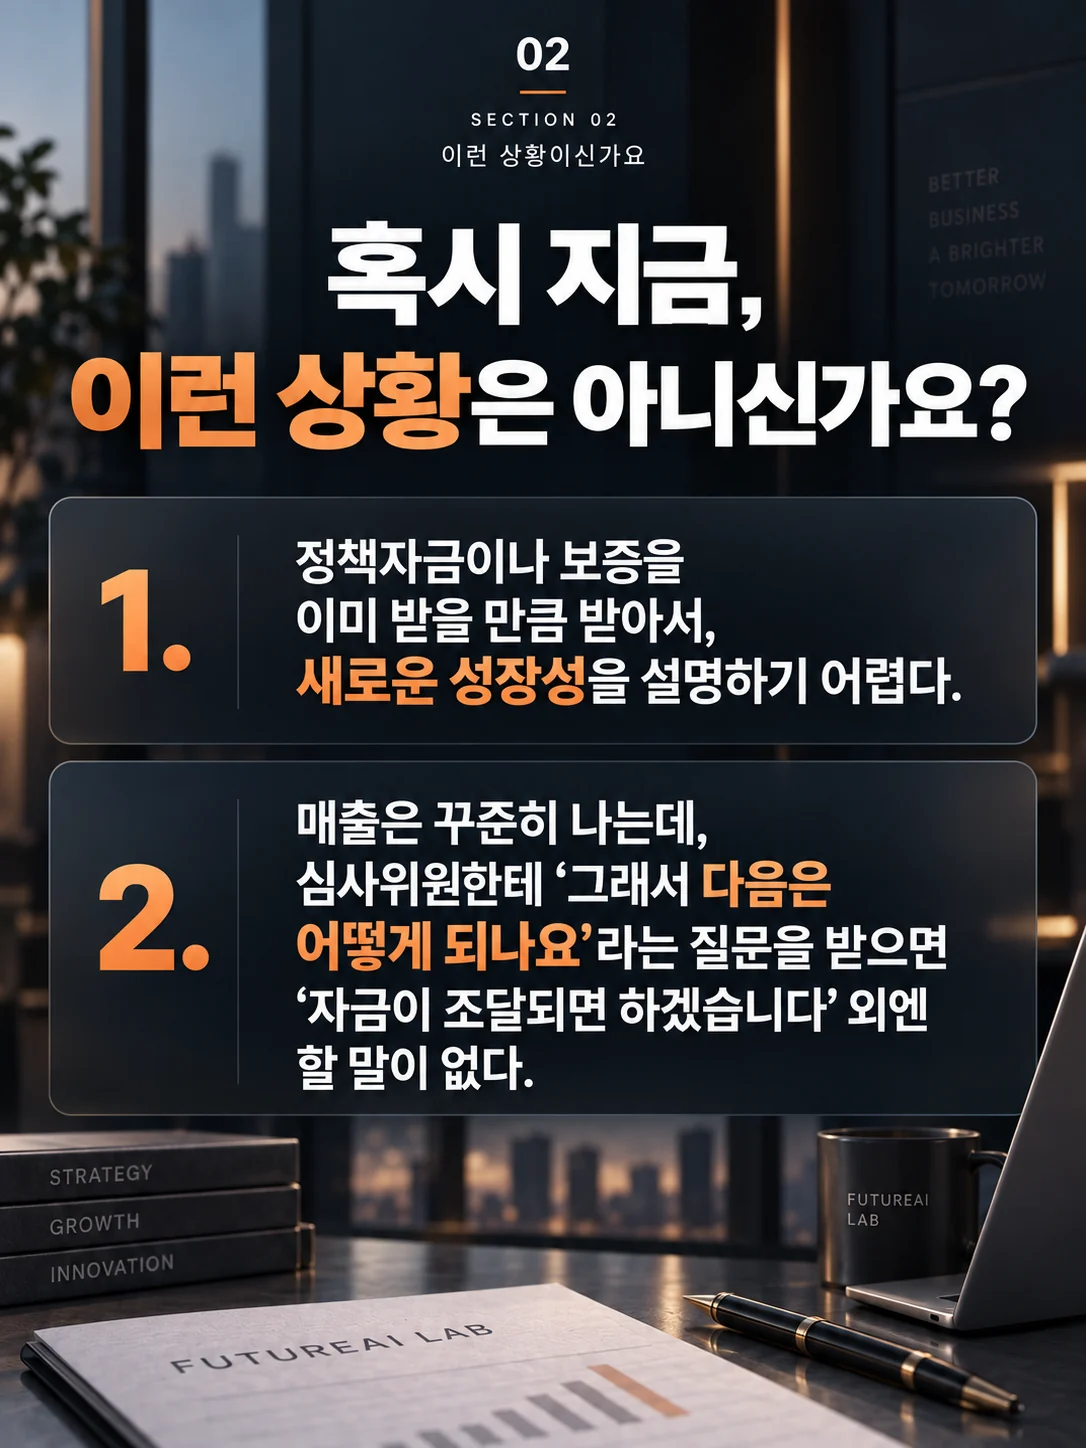
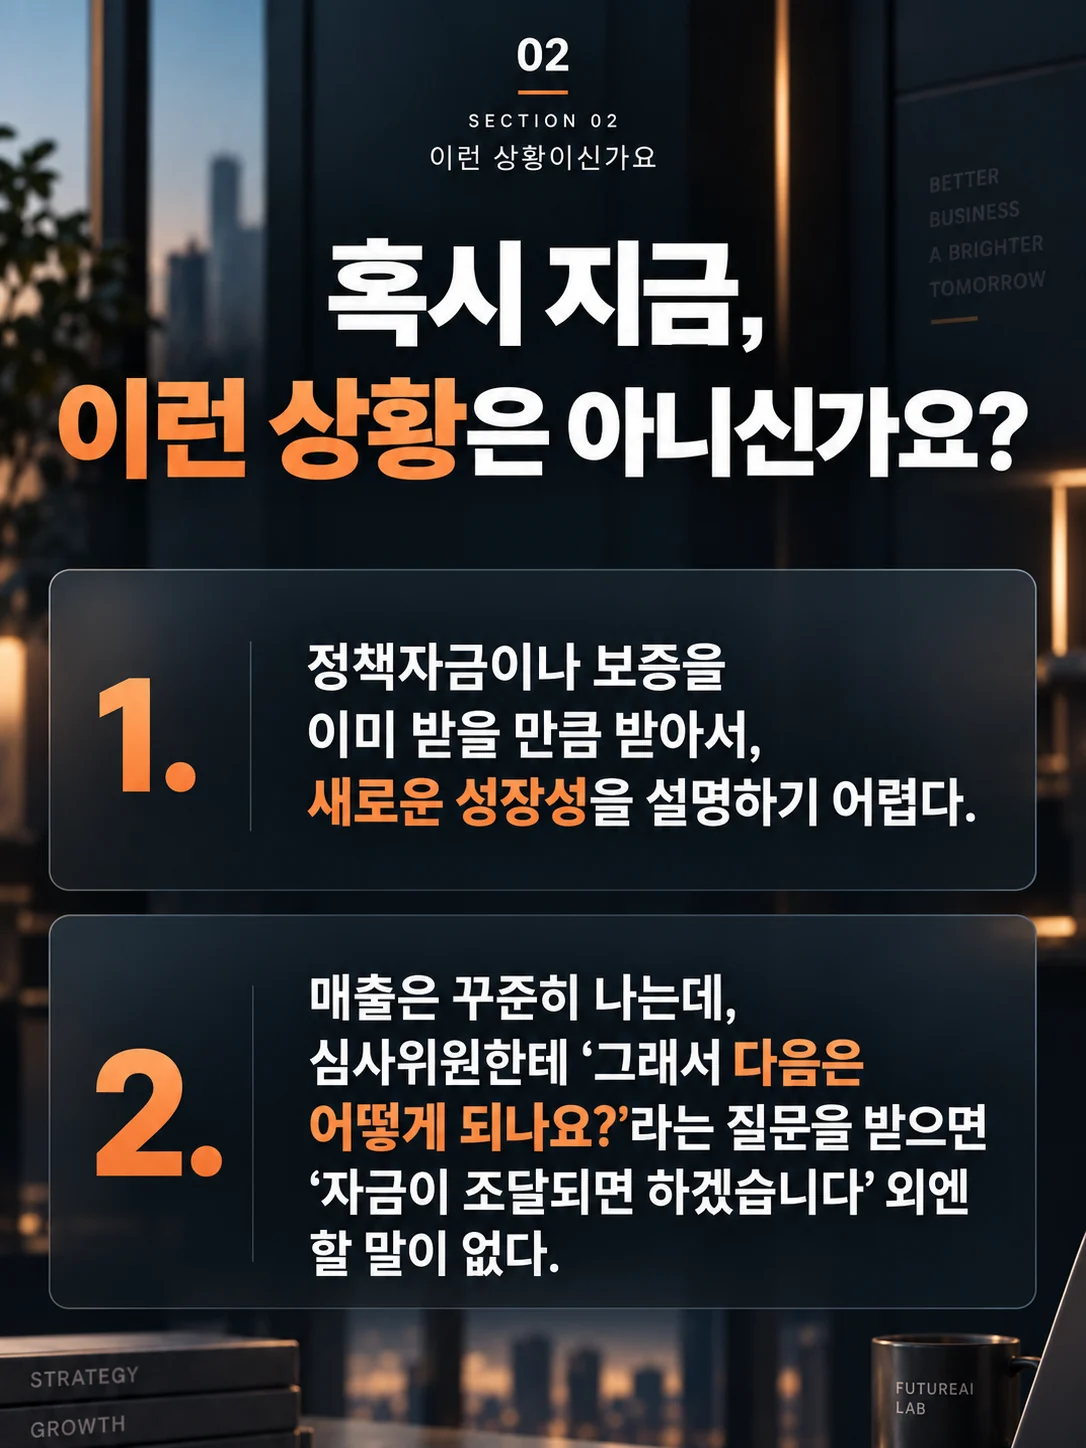
스토리 이미지 6장 새 버전으로 교체 + 첫 화면을 역할 선택 질문 두 개만 남김
이미지 — Drive 새 버전으로 교체 (내용은 같고 조판만 다듬어진 버전)
- 1.11 → 1-1, 2.11 → 2-1, 2.22 → 2-2, 2.33 → 2-3, 3.11 → 3-1, 3.22 → 3-2
- 2.22(1103×1426)와 2.33(1087×1447)은 다른 장과 크기가 달라, 비율을 유지한 채 확대한 뒤
  가운데를 잘라 1086×1448 로 맞췄다(가장자리 배경만 잘려 메시지는 그대로).
- 이미지 설명(alt)은 문구가 그대로라 수정하지 않았다.

게이트웨이(/) — 대표님인지 컨설턴트인지 고르는 화면
- 소개 문장·카드 설명·키워드 칩·신뢰 문구를 모두 걷어내고 질문 두 개만 남김
  "중소기업 대표님 또는 예비창업가이신가요?" / "컨설턴트이신가요?"
- 아이콘을 위로 올려 좁은 화면에서도 질문이 두 줄 안에 떨어지게 함
- 360×640·390×844 에서 두 선택지가 모두 첫 화면 안에 들어오는 것을 확인
- 페이지 성격은 화면에 두지 않고 보조기기용 제목(sr-only)으로만 남김

Claude-Session: https://claude.ai/code/session_0127QvWRVvHFDHQbBmPVBCzc

diff --git a/src/pages/GatewayPage.tsx b/src/pages/GatewayPage.tsx
@@ -5,84 +5,43 @@ import LegalFooter from '../components/LegalFooter'
 import BrandLogo from '../components/BrandLogo'
 import AccountMenu from '../components/account/AccountMenu'
 
-// 루트(/) 역할 선택 게이트웨이. 기존 페이지/컴포넌트는 건드리지 않습니다.
-// 배경은 실제 이미지 대신 CSS/SVG 로만 은은한 "AI 경영지원 네트워크"를 구현합니다.
-
-// 브랜드 정비(0차): 자금조달 실적 대신 AX Architect 포지션을 앞세운다.
-const trustItems = [
-  '경영컨설턴트 출신 AX Architect',
-  '정책자금·인증·사업계획 실무 경험',
-  'ISO 인증 심사원',
-  'AI 기반 경영지원 도구 개발',
-]
-
-type Theme = {
-  card: string
-  glow: string
-  label: string
-  labelBox: string
-  iconBox: string
-  desc: string
-  chip: string
-  cta: string
-  arrow: string
-}
+// 루트(/) 역할 선택 게이트웨이.
+// 이 화면이 하는 일은 하나 — 대표님인지 컨설턴트인지 고르게 하는 것.
+// 그래서 질문 두 개만 남기고 설명·키워드·소개 문구는 두지 않는다.
+// 모바일에서 스크롤 없이 두 선택지가 한눈에 들어오는 것이 기준이다.
 
 type Choice = {
   to: string
   icon: string
-  label: string
-  title: string
-  desc: string
-  cta: string
-  keywords: string[]
-  theme: Theme
+  lines: readonly string[]
+  aria: string
+  card: string
+  glow: string
+  iconBox: string
+  arrow: string
 }
 
 // 대표님 = 밝은 블루(경영지원 서비스) / 컨설턴트 = 다크+사이언(AI 실무 도구)
-const blueTheme: Theme = {
-  card: 'bg-gradient-to-br from-blue-500 to-blue-700 shadow-lg shadow-blue-600/20 hover:shadow-2xl hover:shadow-blue-600/30',
-  glow: 'bg-white/20',
-  label: 'text-white',
-  labelBox: 'bg-white/15 ring-1 ring-inset ring-white/25',
-  iconBox: 'bg-white/15 ring-1 ring-inset ring-white/20',
-  desc: 'text-blue-50',
-  chip: 'bg-white/10 text-blue-50 ring-1 ring-inset ring-white/20',
-  cta: 'bg-white text-blue-700 group-hover:bg-blue-50',
-  arrow: 'text-blue-700',
-}
-const techTheme: Theme = {
-  card: 'bg-gradient-to-br from-slate-800 to-slate-950 shadow-lg shadow-slate-900/30 hover:shadow-2xl hover:shadow-sky-500/20',
-  glow: 'bg-sky-400/25',
-  label: 'text-sky-300',
-  labelBox: 'bg-sky-400/15 ring-1 ring-inset ring-sky-400/30',
-  iconBox: 'bg-white/10 ring-1 ring-inset ring-white/15',
-  desc: 'text-slate-300',
-  chip: 'bg-white/5 text-slate-300 ring-1 ring-inset ring-white/10',
-  cta: 'bg-sky-400 text-slate-900 group-hover:bg-sky-300',
-  arrow: 'text-slate-900',
-}
-
-const choices: Choice[] = [
+const choices: readonly Choice[] = [
   {
     to: '/business-services',
     icon: '🏢',
-    label: '중소기업 맞춤형 AX',
-    title: '사업과 업무를 먼저 진단하고, 실제 시스템으로 구현하려는 대표님',
-    desc: '엑셀·카톡·ERP 사이에 남아 있는 회사 고유의 업무를 AI와 전용 시스템으로 연결합니다. 운영효율·매출성장·기업자산화까지.',
-    cta: '중소기업 맞춤형 AX 보기',
-    keywords: ['AX Fit 진단', '사업·업무 분석', '전용 시스템 구축', '고객 플랫폼'],
-    theme: blueTheme,
+    lines: ['중소기업 대표님 또는', '예비창업가이신가요?'],
+    aria: '중소기업 대표님 또는 예비창업가이신가요? 중소기업 맞춤형 AX 보기',
+    card: 'bg-gradient-to-br from-blue-500 to-blue-700 shadow-lg shadow-blue-600/20 hover:shadow-2xl hover:shadow-blue-600/30',
+    glow: 'bg-white/20',
+    iconBox: 'bg-white/15 ring-1 ring-inset ring-white/20',
+    arrow: 'text-white',
   },
   {
     to: '/consultants',
     icon: '🧑💼',
-    label: 'AI 실무 도구',
-    title: '컨설턴트이신가요?',
-    desc: '고객 진단·제안서·지원금·인증 업무를 더 빠르게 처리하는 AI 실무 도구를 확인해보세요.',
-    cta: '컨설턴트용 도구 보기',
-    keywords: ['고객진단', '제안서', '업무자동화', 'AI도구'],
-    theme: techTheme,
+    lines: ['컨설턴트이신가요?'],
+    aria: '컨설턴트이신가요? 컨설턴트용 AI 실무 도구 보기',
+    card: 'bg-gradient-to-br from-slate-800 to-slate-950 shadow-lg shadow-slate-900/30 hover:shadow-2xl hover:shadow-sky-500/20',
+    glow: 'bg-sky-400/25',
+    iconBox: 'bg-white/10 ring-1 ring-inset ring-white/15',
+    arrow: 'text-sky-300',
   },
 ]
 
@@ -106,73 +65,43 @@ export default function GatewayPage() {
       </div>
 
       {/* Content */}
-      <div className="relative z-10 mx-auto flex w-full max-w-5xl flex-1 flex-col items-center justify-center px-6 py-8 text-center sm:py-14">
-        {/* Brand */}
+      <div className="relative z-10 mx-auto flex w-full max-w-4xl flex-1 flex-col items-center justify-center px-5 py-10 sm:px-6 sm:py-14">
+        {/* 화면에는 로고와 질문만 두고, 페이지가 무엇인지는 보조기기에만 알린다 */}
+        <h1 className="sr-only">미래AI랩 — 중소기업 맞춤형 AX와 컨설턴트용 AI 실무 도구</h1>
+
         <BrandLogo
           to="/business-services"
           className="items-center"
           taglineClassName="text-center"
-          imgClassName="h-12 max-w-[232px] sm:h-14 sm:max-w-[280px]"
+          imgClassName="h-11 max-w-[212px] sm:h-14 sm:max-w-[280px]"
         />
 
-        {/* Main copy */}
-        <h1 className="mt-5 text-[1.55rem] font-extrabold leading-[1.25] tracking-tight text-slate-900 sm:mt-7 sm:text-4xl lg:text-[2.7rem] lg:leading-[1.2]">
-          대표님의 회사 운영과 컨설턴트의 실무 도구를
-          <br className="hidden sm:block" /> <span className="text-blue-600">AI로 연결</span>합니다.
-        </h1>
-        <p className="mt-3.5 max-w-2xl text-[0.95rem] leading-relaxed text-slate-600 sm:mt-5 sm:text-lg">
-          중소기업 맞춤형 AX 설계·구축과 컨설턴트용 AI 업무도구를 목적에 맞게 나누어 안내합니다.
-        </p>
-
-        {/* Choice cards */}
-        <div className="mt-7 grid w-full gap-4 sm:mt-10 sm:grid-cols-2 sm:gap-6">
-          {choices.map((c) => {
-            const t = c.theme
-            return (
-              <Link
-                key={c.to}
-                to={c.to}
-                className={`group relative flex flex-col overflow-hidden rounded-3xl p-7 text-left transition duration-200 hover:-translate-y-1.5 sm:p-8 ${t.card}`}
-              >
-                <div aria-hidden className={`pointer-events-none absolute -right-14 -top-16 h-44 w-44 rounded-full blur-2xl ${t.glow}`} />
-                <div className="relative flex flex-1 flex-col">
-                  <div className="flex items-center gap-2">
-                    <span className={`grid h-14 w-14 place-items-center rounded-2xl text-2xl ${t.iconBox}`}>{c.icon}</span>
-                    <span className={`rounded-full px-3 py-1 text-xs font-black ${t.labelBox} ${t.label}`}>{c.label}</span>
-                  </div>
-                  <h2 className="mt-5 text-xl font-extrabold tracking-tight text-white sm:text-2xl">{c.title}</h2>
-                  <p className={`mt-2.5 text-[0.95rem] leading-relaxed ${t.desc}`}>{c.desc}</p>
-
-                  <div className="mt-4 flex flex-wrap gap-1.5">
-                    {c.keywords.map((k) => (
-                      <span key={k} className={`rounded-md px-2 py-1 text-xs font-semibold ${t.chip}`}>
-                        {k}
-                      </span>
-                    ))}
-                  </div>
-
-                  <span className={`mt-7 inline-flex items-center justify-center gap-1.5 rounded-xl px-6 py-3.5 text-base font-bold shadow-sm transition-colors ${t.cta}`}>
-                    {c.cta}
-                    <span aria-hidden className={`transition-transform group-hover:translate-x-0.5 ${t.arrow}`}>
-                      →
-                    </span>
-                  </span>
-                </div>
-              </Link>
-            )
-          })}
-        </div>
-
-        {/* Trust line */}
-        <div className="mt-7 flex flex-wrap items-center justify-center gap-x-2.5 gap-y-2 text-sm font-medium text-slate-500 sm:mt-10">
-          {trustItems.map((t, i) => (
-            <span key={t} className="inline-flex items-center gap-2.5">
-              {i > 0 && <span aria-hidden className="text-slate-300">·</span>}
-              {t}
-            </span>
+        <div className="mt-8 grid w-full gap-4 sm:mt-12 sm:grid-cols-2 sm:gap-6">
+          {choices.map((c) => (
+            <Link
+              key={c.to}
+              to={c.to}
+              aria-label={c.aria}
+              className={`group relative flex min-h-[10.5rem] flex-col justify-between overflow-hidden rounded-3xl px-6 py-6 transition duration-200 hover:-translate-y-1.5 sm:min-h-[13.5rem] sm:px-8 sm:py-8 ${c.card}`}
+            >
+              <span aria-hidden className={`pointer-events-none absolute -right-14 -top-16 h-44 w-44 rounded-full blur-2xl ${c.glow}`} />
+              <span aria-hidden className={`relative grid h-14 w-14 place-items-center rounded-2xl text-2xl sm:h-16 sm:w-16 sm:text-3xl ${c.iconBox}`}>
+                {c.icon}
+              </span>
+              {/* 아이콘을 위로 올려 글줄 폭을 넉넉히 준다 — 좁은 화면에서도 질문이 두 줄 안에 떨어지게 */}
+              <span className="relative mt-5 flex items-end justify-between gap-3">
+                <span className="min-w-0 text-[1.26rem] font-extrabold leading-[1.35] tracking-tight text-white min-[380px]:text-[1.36rem] sm:text-[1.6rem] sm:leading-[1.3]">
+                  {c.lines.map((line) => (
+                    <span key={line} className="block">{line}</span>
+                  ))}
+                </span>
+                <span aria-hidden className={`shrink-0 text-2xl font-black leading-none transition-transform group-hover:translate-x-1 sm:text-3xl ${c.arrow}`}>
+                  →
+                </span>
+              </span>
+            </Link>
           ))}
         </div>
-        <p className="mt-3 text-xs text-slate-400">미래 AI 랩이 직접 운영합니다</p>
       </div>
 
       <div className="relative z-10">

diff --git a/src/data/axHomeStoryV3.ts b/src/data/axHomeStoryV3.ts
@@ -26,13 +26,13 @@ export const AX_STORY_V3_SECTIONS: Record<number, readonly string[]> = {
 }
 
 export const AX_STORY_V3_IMAGES: Record<string, AxStoryV3Image> = {
-  '1-1': { alt: 'Section 01 계획보다 강한 증거 — 아직도 사업계획서 하나만으로 정책자금, 정부지원사업, 투자유치를 준비하고 계신가요? 계획만으로는 이제 충분하지 않습니다', bg: 'linear-gradient(180deg, #2C384A 0%, #3E4656 25%, #242B37 50%, #312A29 75%, #868287 100%)', w: 1086, h: 1448 },
+  '1-1': { alt: 'Section 01 계획보다 강한 증거 — 아직도 사업계획서 하나만으로 정책자금, 정부지원사업, 투자유치를 준비하고 계신가요? 계획만으로는 이제 충분하지 않습니다', bg: 'linear-gradient(180deg, #2F3B4D 0%, #3F4857 25%, #252C38 50%, #332B2A 75%, #8A868B 100%)', w: 1086, h: 1448 },
   '1-2': { alt: '심사자도, 투자자도 결국 궁금한 건 하나 — 지금 이 회사에서 실제로 뭐가 달라지고 있는가. 계획보다 강한 증거는 이미 시작된 변화를 보여주는 것', bg: 'linear-gradient(180deg, #EBF1F5 0%, #F9F8F7 25%, #CDC8BA 50%, #A39891 75%, #D9D8DC 100%)', w: 1086, h: 1448 },
-  '2-1': { alt: 'Section 02 혹시 지금 이런 상황은 아니신가요 — 1. 정책자금·보증을 이미 받아 새로운 성장성을 설명하기 어렵다 2. 매출은 나는데 다음 계획을 설명할 말이 없다', bg: 'linear-gradient(180deg, #4D5B6A 0%, #111416 25%, #5E4534 50%, #1C1B1E 75%, #474850 100%)', w: 1086, h: 1448 },
-  '2-2': { alt: '3. 예비창업가거나 새로운 아이디어를 사업화하고 싶은데 보여줄 게 없다 4. 사업 초기라 실적은 부족한데 수억 원 단위 성장자금이 필요하다', bg: 'linear-gradient(180deg, #F3F4F5 0%, #F7F7F7 25%, #FDFCFA 50%, #E0C9BB 75%, #BFB9BD 100%)', w: 1086, h: 1448 },
-  '2-3': { alt: '넷 중 하나라도 해당된다면, 지금 필요한 건 사업계획서를 한 번 더 고치는 일이 아닙니다', bg: 'linear-gradient(180deg, #FAFAFB 0%, #FCFCFC 25%, #D7D0B9 50%, #7F6F69 75%, #E5E2E2 100%)', w: 1086, h: 1448 },
-  '3-1': { alt: 'Section 03 사업계획서의 시대가 달라졌습니다 — 누구나 AI로 빠르게 만들 수 있어 사업계획서만으로는 차별화되기 어렵고, 차이는 문서 밖에서 생깁니다', bg: 'linear-gradient(180deg, #F1F4F5 0%, #F6F7F9 25%, #D0CAB2 50%, #CDBDB5 75%, #D2CECC 100%)', w: 1086, h: 1448 },
-  '3-2': { alt: '실제로 작동하는 웹앱, 실제로 기능하는 MVP, 데이터가 쌓이는 초기 모델이 꼭 있어야 하며 업종마다 성장 스토리를 웹앱에 녹여내는 것이 중요 — 예를 들면 이런 것들입니다', bg: 'linear-gradient(180deg, #435B77 0%, #474F61 25%, #4D3F36 50%, #121823 75%, #131721 100%)', w: 1086, h: 1448 },
+  '2-1': { alt: 'Section 02 혹시 지금 이런 상황은 아니신가요 — 1. 정책자금·보증을 이미 받아 새로운 성장성을 설명하기 어렵다 2. 매출은 나는데 다음 계획을 설명할 말이 없다', bg: 'linear-gradient(180deg, #486072 0%, #0F1212 25%, #684933 50%, #050A0E 75%, #1D1D21 100%)', w: 1086, h: 1448 },
+  '2-2': { alt: '3. 예비창업가거나 새로운 아이디어를 사업화하고 싶은데 보여줄 게 없다 4. 사업 초기라 실적은 부족한데 수억 원 단위 성장자금이 필요하다', bg: 'linear-gradient(180deg, #F5F1ED 0%, #FAF4ED 25%, #FBF4EB 50%, #796F50 75%, #524F51 100%)', w: 1086, h: 1448 },
+  '2-3': { alt: '넷 중 하나라도 해당된다면, 지금 필요한 건 사업계획서를 한 번 더 고치는 일이 아닙니다', bg: 'linear-gradient(180deg, #FAFAF9 0%, #FDFCFA 25%, #C7BFA2 50%, #7A6660 75%, #D9D4D5 100%)', w: 1086, h: 1448 },
+  '3-1': { alt: 'Section 03 사업계획서의 시대가 달라졌습니다 — 누구나 AI로 빠르게 만들 수 있어 사업계획서만으로는 차별화되기 어렵고, 차이는 문서 밖에서 생깁니다', bg: 'linear-gradient(180deg, #F1F4F6 0%, #F6F7F9 25%, #CFC9B3 50%, #CFBCB4 75%, #D2CFCD 100%)', w: 1086, h: 1448 },
+  '3-2': { alt: '실제로 작동하는 웹앱, 실제로 기능하는 MVP, 데이터가 쌓이는 초기 모델이 꼭 있어야 하며 업종마다 성장 스토리를 웹앱에 녹여내는 것이 중요 — 예를 들면 이런 것들입니다', bg: 'linear-gradient(180deg, #3F5B7A 0%, #475065 25%, #5A4737 50%, #131A25 75%, #10131D 100%)', w: 1086, h: 1448 },
   '3-3': { alt: '음식점이라면 매장 데이터로 밀키트·케이터링·기업 복지몰·멤버십 혜택으로 넓히는 그림 / 화장품이라면 AI 피부 분석 맞춤 추천과 구독·리필·뷰티클래스로 접점을 넓히는 그림 (AX 샘플 보기 버튼)', bg: 'linear-gradient(180deg, #B1AD9C 0%, #DFC9B8 25%, #FAF7F3 50%, #FCFAF7 75%, #FBFAF6 100%)', w: 1086, h: 1448, hotspots: [{ x: 6.63, y: 40.33, w: 44.94, h: 6.63, sample: 'gounsot', label: '음식점 AX 샘플 보기 — 고운솥 식당 AX 화면 (새 창)' }, { x: 6.63, y: 88.12, w: 44.94, h: 6.77, sample: 'veloa', label: '화장품 AX 샘플 보기 — VELOA BEAUTY AX 화면 (새 창)' }] },
   '3-4': { alt: '유통·커머스라면 대형 이커머스처럼 AI가 구매 이력을 분석해 재구매 시점보다 먼저 알림을 보내고 재구매율 자체를 끌어올리는 구조 (유통·커머스 AX 샘플 보기) / 패션·의류라면 AI가 스타일과 사이즈를 추천하고 재입고 알림으로 다시 방문하게 만드는 구조 (패션·의류 AX 샘플 보기)', bg: 'linear-gradient(180deg, #656C76 0%, #4B3328 25%, #413833 50%, #554E4B 75%, #020609 100%)', w: 1086, h: 1448, hotspots: [{ x: 5.99, y: 39.64, w: 44.48, h: 6.08, href: 'https://sample22-theta.vercel.app/ax', label: '유통·커머스 AX 샘플 보기 — NEXMART 종합유통 플랫폼 AX 화면 (새 창)' }, { x: 5.99, y: 85.77, w: 43.28, h: 6.08, href: 'https://sample21-eight.vercel.app/ax', label: '패션·의류 AX 샘플 보기 — MORFIT 멀티브랜드 패션 플랫폼 AX 화면 (새 창)' }] },
   '3-5': { alt: '학원이라면 AI가 학생 데이터를 분석해 학부모 리포트를 자동 발송하고 재등록 시점을 놓치지 않게 하는 구조 / 제조업이라면 거래처가 재고·납기를 직접 확인하는 B2B 포탈과 AI 재주문 알림 (AX 샘플 보기 버튼)', bg: 'linear-gradient(180deg, #E7E6E6 0%, #F6F6F9 25%, #CAB0A0 50%, #F8F9FB 75%, #FBFBFC 100%)', w: 1086, h: 1448, hotspots: [{ x: 6.45, y: 39.36, w: 39.13, h: 6.91, sample: 'edumaster', label: '학원 AX 샘플 보기 — 에듀마스터 AX 화면 (새 창)' }, { x: 6.45, y: 85.64, w: 38.67, h: 6.77, sample: 'seum', label: '제조업 AX 샘플 보기 — 세움정밀솔루션 AX 화면 (새 창)' }] },
